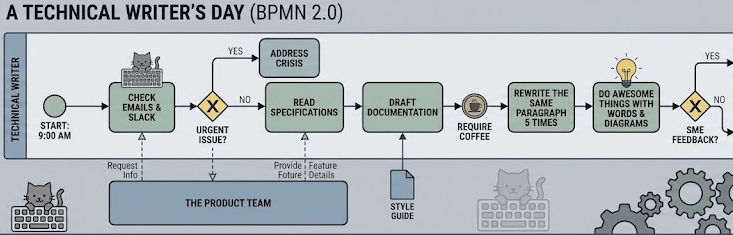
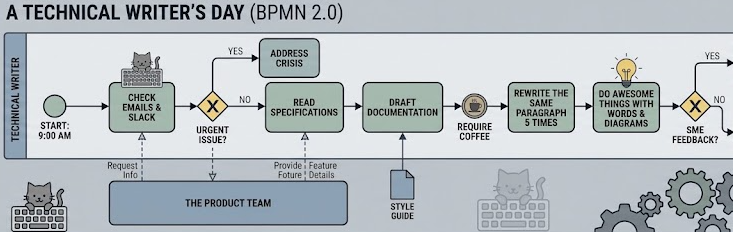
Revert hero image edit, move name back above it, size it down
Restores the original "A Technical Writer's Day" heading (dropping
the in-image name/title swap), puts the "Peter Cimring" <h1> back
at the top of the page, and renders the image smaller (85% width)
and slightly faded (85% opacity) beneath it.

diff --git a/index.html b/index.html
@@ -15,13 +15,13 @@
     <a href="#ai-engineering">AI Engineering</a>
   </nav>
   <section id="bio" class="hero">
-    <img
-      src="assets/hero-bpmn-comic.png"
-      alt="A comic BPMN diagram titled 'A Technical Writer's Day', modeling a day of checking emails, addressing crises, and drafting docs."
-      class="hero-banner"
-    >
     <div class="hero-header">
       <h1>Peter Cimring</h1>
+      <img
+        src="assets/hero-bpmn-comic.png"
+        alt="A comic BPMN diagram titled 'A Technical Writer's Day', modeling a day of checking emails, addressing crises, and drafting docs."
+        class="hero-banner"
+      >
       <div class="pill-row">
         <span class="pill">Documentation Engineering</span>
         <span class="pill">Developer Experience (DX)</span>

diff --git a/styles.css b/styles.css
@@ -57,11 +57,12 @@ body {
 
 .hero-banner {
   display: block;
-  width: 100%;
+  width: 85%;
   height: auto;
   border-radius: 8px;
   border: 1px solid var(--color-border);
-  margin-bottom: 2rem;
+  margin-bottom: 1.5rem;
+  opacity: 0.85;
 }
 
 .hero-header {
